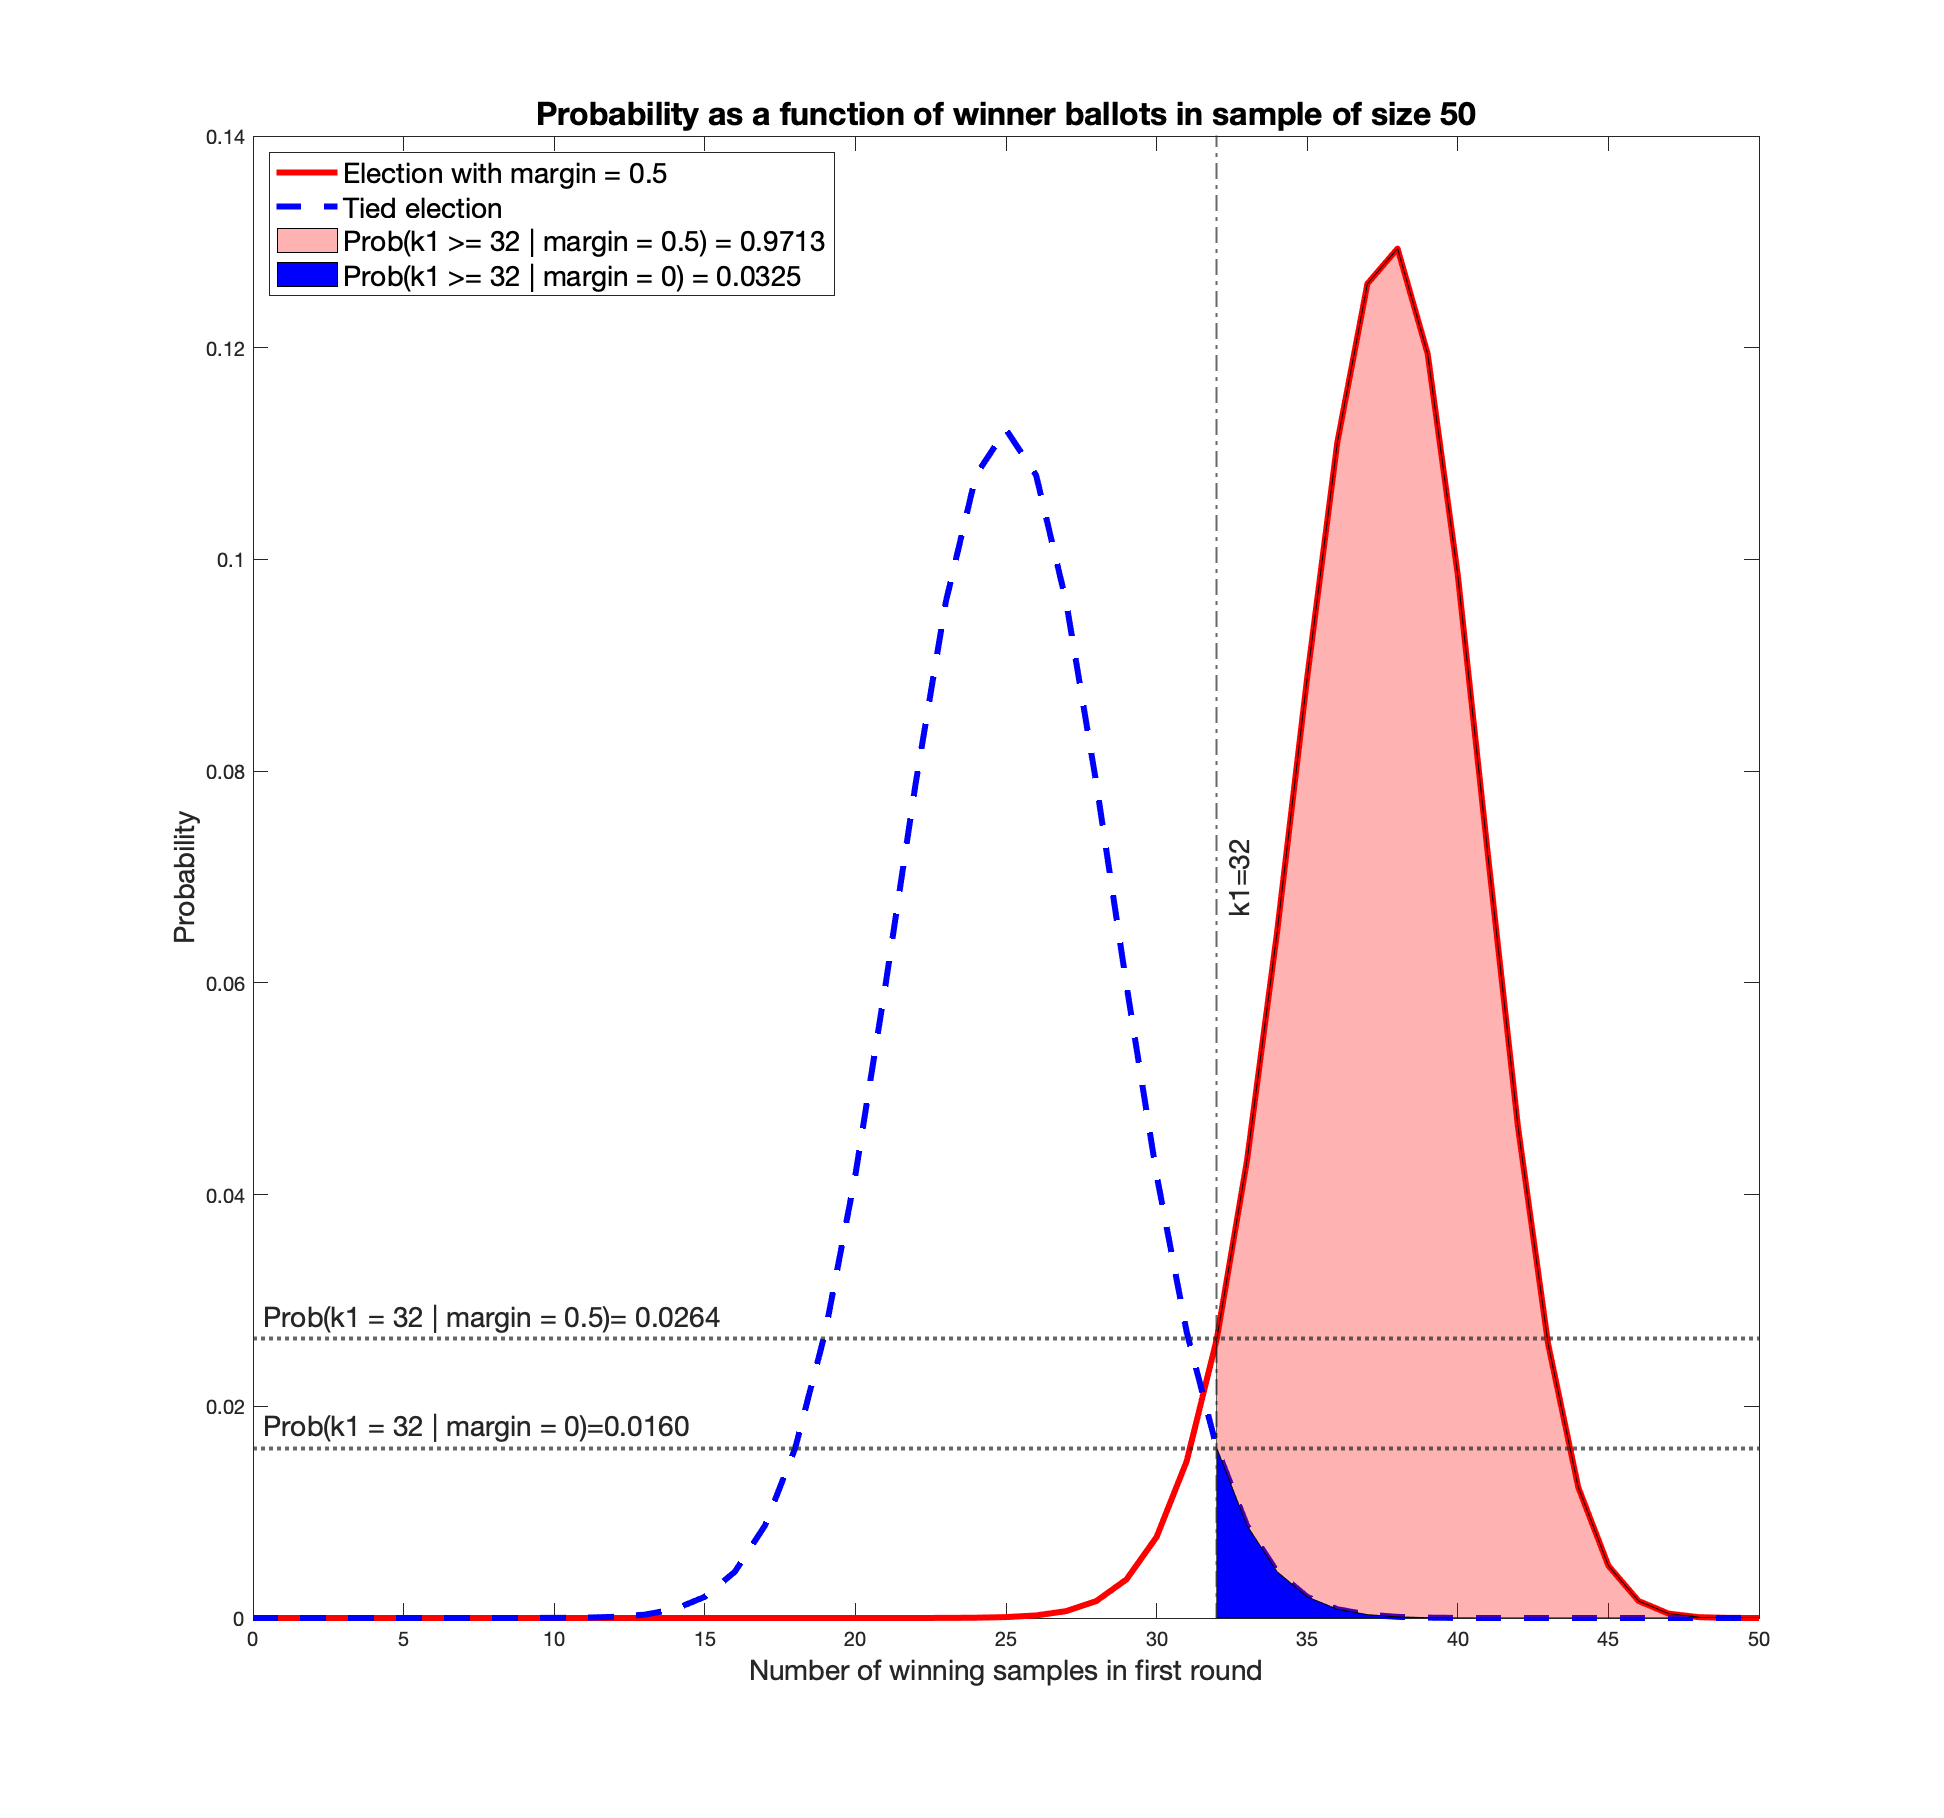
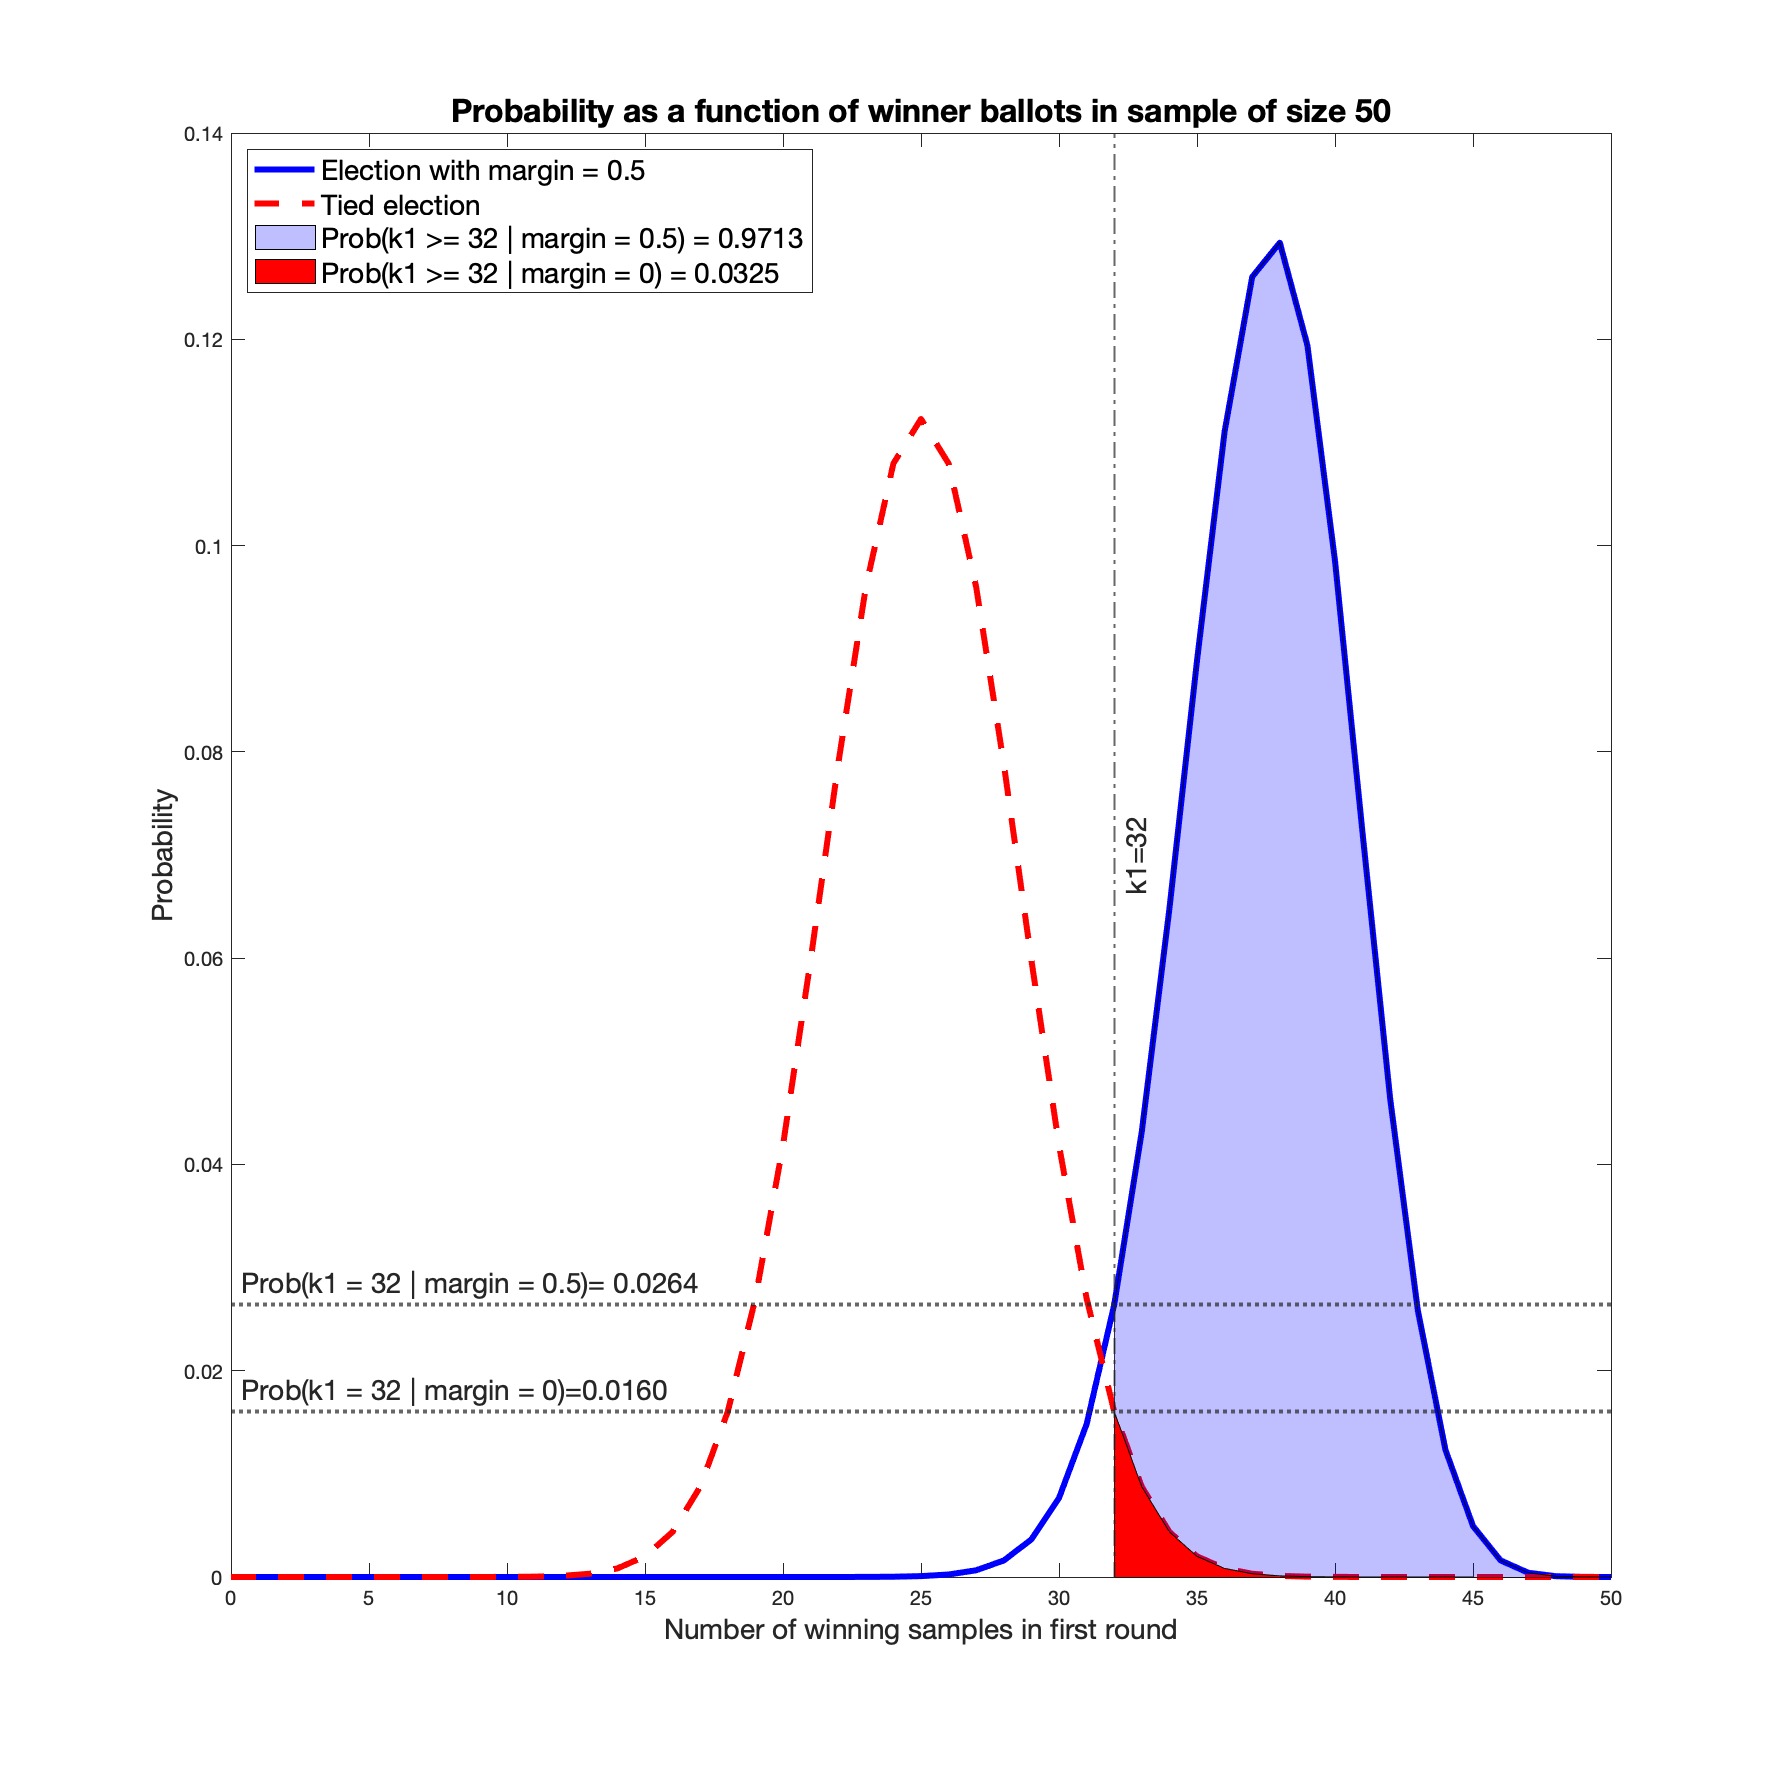
hope the math comes out ok in the markup file

diff --git a/R2Audits/Athena/Scripts/Figures_For_Exposition/graph_athena_tails.m b/R2Audits/Athena/Scripts/Figures_For_Exposition/graph_athena_tails.m
@@ -11,8 +11,8 @@ margin = 2*p-1;
 %----Begin graphs
 
 % Two plots
-first_plot = plot((0:n1),binopdf((0:n1),n1,p), 'r', (0:n1), ...
-    binopdf((0:n1),n1,0.5), '--b', 'LineWidth', 3);
+first_plot = plot((0:n1),binopdf((0:n1),n1,p), 'b', (0:n1), ...
+    binopdf((0:n1),n1,0.5), '--r', 'LineWidth', 3);
 hold
 
 % Draw line at k1 and label it
@@ -41,9 +41,9 @@ title(sprintf('Probability as a function of winner ballots in sample of size %d'
 
 % Color tails
 patch_label1 = patch([(k1:n1), fliplr((k1:n1))], ...
-    [binopdf((k1:n1),n1,p), fliplr(zeros(1,n1-k1+1))], 'r', 'FaceAlpha', 0.3);
+    [binopdf((k1:n1),n1,p), fliplr(zeros(1,n1-k1+1))], 'b', 'FaceAlpha', 0.25);
 patch_label2 = patch([(k1:n1), fliplr((k1:n1))], ...
-    [binopdf((k1:n1),n1,0.5), fliplr(zeros(1,n1-k1+1))], 'b');
+    [binopdf((k1:n1),n1,0.5), fliplr(zeros(1,n1-k1+1))], 'r');
 
 % Legend
 legend(vertcat(first_plot, patch_label1, patch_label2), ...

diff --git a/R2Audits/Athena/README.md b/R2Audits/Athena/README.md
@@ -11,19 +11,19 @@ The folder Scripts contains scripts for use in elections with multiple candidate
 
 Consider a two-contestant contest with no invalid votes. Let `x` be the announced fractional tally for the winner. 
 
-Suppose the risk limit of the audit is $\alpha = 0.1$. Suppose `n1` ballots are drawn in the first round. Denote by `k1` the number of votes drawn for the winner. Suppose `n1=50` and `x=0.75` (corresponding to a margin of `0.5`). Figure 1 shows the probability distributions of `k1` given that the election is (a) as announced for `x = 0.75`, and (b) a tie. Recall that the tied election is the wrong election outcome that is hardest to distinguish from the announced one, and hence defines the worst-case risk. (See [Risk-Limiting Bayesian Polling Audits for Two Candidate Elections](https://arxiv.org/abs/1902.00999)). Observe that, if `k1=32`, `Pr[k1=32 | margin=0.5] = 0.026390` and `Pr[k1=32 | margin=0] = 0.016035`. 
+Suppose the risk limit of the audit is '&alpha = 0.1'. Suppose `n1` ballots are drawn in the first round. Denote by `k1` the number of votes drawn for the winner. Suppose `n1=50` and `x=0.75` (corresponding to a margin of `0.5`). Figure 1 shows the probability distributions of `k1` given that the election is (a) as announced for `x = 0.75`, and (b) a tie. Recall that the tied election is the wrong election outcome that is hardest to distinguish from the announced one, and hence defines the worst-case risk. (See [Risk-Limiting Bayesian Polling Audits for Two Candidate Elections](https://arxiv.org/abs/1902.00999)). Observe that, if `k1=32`, `Pr[k1=32 | margin=0.5] = 0.0264` and `Pr[k1=32 | margin=0] = 0.0160`. 
  
 ![Figure 1: Probability Distribution of Winner Votes for `x=0.75` and `n1=50`: First Round](fig/graph_athena_tails.png)
 
 The *BRAVO* p-value is defined as follows: 
 
-$$\frac{Prob(k1=32 | margin = 0)}{Prob(k1=32 | margin = 0.5)} = \frac{0.016035}{0.026390} = 0.6076 > \alpha$$
+`Prob(k1=32 | margin = 0)/Prob(k1=32 | margin = 0.5) = 0.0160/0.0264 = 0.6076 > &alpha`
 
 Thus the sample does not satisfy the stopping condition for *BRAVO*. 
 
 The *Athena* p-value is defined as the ratio of the tails, (red tail divided by blue tail)
 
-$$\frac{Prob(k1>=32 | margin = 0)}{Prob(k1>=32 | margin = 0.5)} = \frac{0.032454}{0.971267} = 0.0334 < \alpha$$
+`Prob(k1>=32 | margin = 0)/Prob(k1>=32 | margin = 0.5) = 0.0325/0.9713 = 0.0334 < &alpha`
 
 And the sample satisfies the *Athena* stopping condition. 
 
